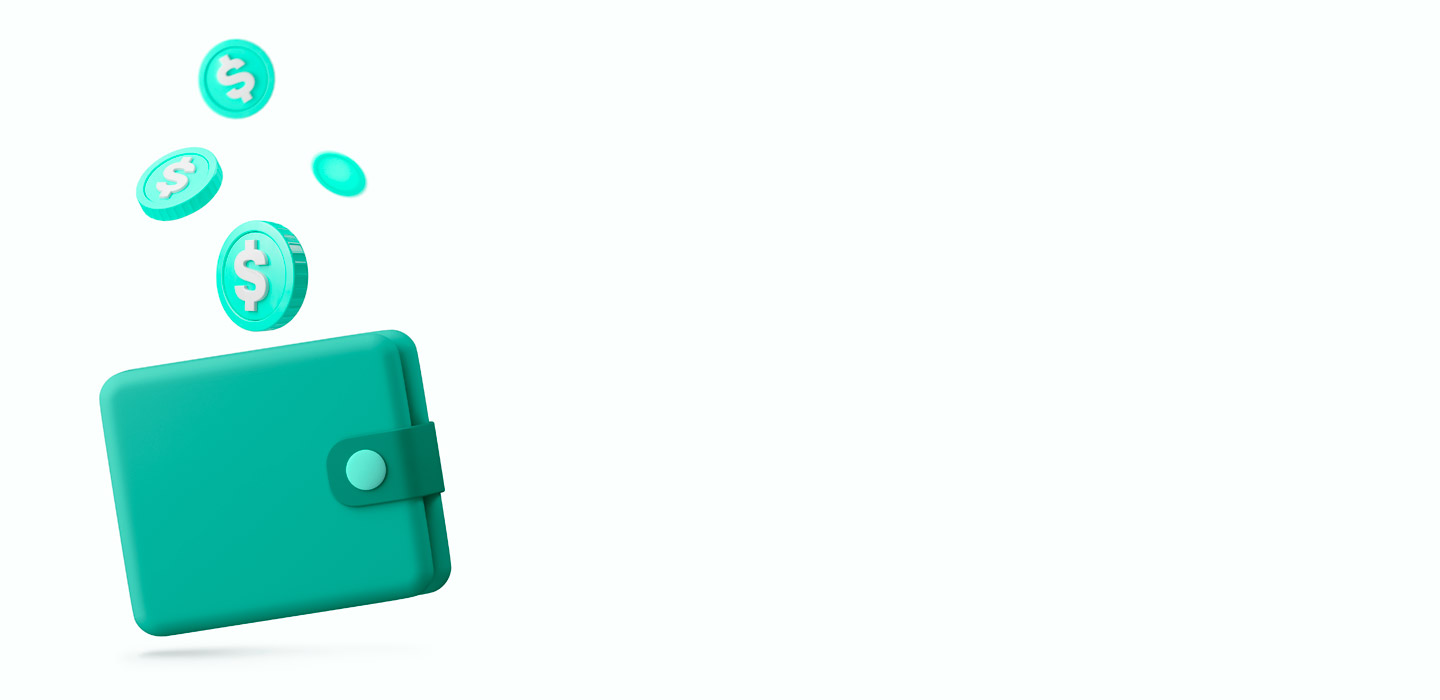
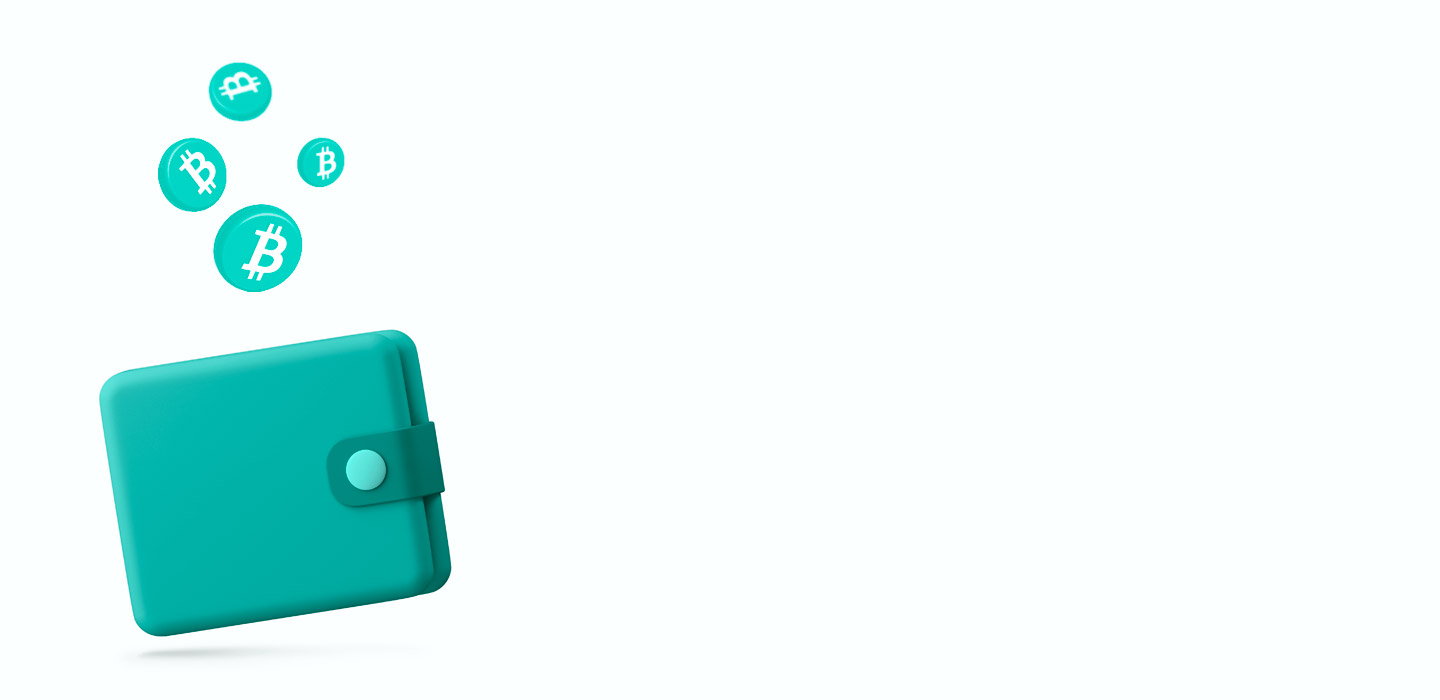
'dashboard_nuevo'

Changed region(s): [[0.0938, 0.06, 0.2188, 0.48], [0.1875, 0.18, 0.2812, 0.3]]

diff --git a/html/dashboard.html b/html/dashboard.html
@@ -76,148 +76,85 @@
     <!-- <div id="backdownDiv" class="container-fluid backdown-div animate__animated animate__fadeOutDownBig animate__delay-1s">
 
     </div> -->
-    <div class="dashboard-content container p-3">
-        <div class="row d-flex">
-            <div class="col-8 col-md-auto">
-                <h2 class="display-4 m-0" style="color: #26547c;">Dashboard</h2>
-            </div>
-            <div class="col-2 align-items-center hidden-desktop">
-                <a href="#" class="m-1" style="color: #26547c;"><span class="material-icons">notifications</span></a>
-            </div>
-            <div class="col-2 align-items-center hidden-desktop">
-                <a href="#" class="m-1" style="color: #26547c;"><span class="material-icons">chat</span></a>
-            </div>
-        </div>
-        <hr style="height: 2px;color: #26547c8a;">
-        <div class="container-fluid">
-            <div class="row">
-                <div class="col-xs-12 col-md-6 mt-3 p-2">
-                    <div class="card bg-dark text-white card-currency" style="background-image: url('../assets/img/dashboard/card1.jpg');background-size: cover;">
-                        <div class="card-body">
-                            <div class="row align-items-center">
-                                <div class="col-6">
-                                    <h3 class="card-title fw-light m-0">Bitcoin<br><small>BTC</small></h3>
-                                </div>
-                                <div class="col-6 text-end">
-                                    <svg width="40" height="40" xmlns="http://www.w3.org/2000/svg" xmlns:xlink="http://www.w3.org/1999/xlink" xmlns:xodm="http://www.corel.com/coreldraw/odm/2003" xml:space="preserve" width="100%" height="100%" version="1.1" shape-rendering="geometricPrecision" text-rendering="geometricPrecision" image-rendering="optimizeQuality" fill-rule="evenodd" clip-rule="evenodd" viewBox="0 0 4091.27 4091.73">
-                                        <g id="Layer_x0020_1">
-                                         <metadata id="CorelCorpID_0Corel-Layer"/>
-                                         <g id="_1421344023328">
-                                          <path fill="#F7931A" fill-rule="nonzero" d="M4030.06 2540.77c-273.24,1096.01 -1383.32,1763.02 -2479.46,1489.71 -1095.68,-273.24 -1762.69,-1383.39 -1489.33,-2479.31 273.12,-1096.13 1383.2,-1763.19 2479,-1489.95 1096.06,273.24 1763.03,1383.51 1489.76,2479.57l0.02 -0.02z"/>
-                                          <path fill="white" fill-rule="nonzero" d="M2947.77 1754.38c40.72,-272.26 -166.56,-418.61 -450,-516.24l91.95 -368.8 -224.5 -55.94 -89.51 359.09c-59.02,-14.72 -119.63,-28.59 -179.87,-42.34l90.16 -361.46 -224.36 -55.94 -92 368.68c-48.84,-11.12 -96.81,-22.11 -143.35,-33.69l0.26 -1.16 -309.59 -77.31 -59.72 239.78c0,0 166.56,38.18 163.05,40.53 90.91,22.69 107.35,82.87 104.62,130.57l-104.74 420.15c6.26,1.59 14.38,3.89 23.34,7.49 -7.49,-1.86 -15.46,-3.89 -23.73,-5.87l-146.81 588.57c-11.11,27.62 -39.31,69.07 -102.87,53.33 2.25,3.26 -163.17,-40.72 -163.17,-40.72l-111.46 256.98 292.15 72.83c54.35,13.63 107.61,27.89 160.06,41.3l-92.9 373.03 224.24 55.94 92 -369.07c61.26,16.63 120.71,31.97 178.91,46.43l-91.69 367.33 224.51 55.94 92.89 -372.33c382.82,72.45 670.67,43.24 791.83,-303.02 97.63,-278.78 -4.86,-439.58 -206.26,-544.44 146.69,-33.83 257.18,-130.31 286.64,-329.61l-0.07 -0.05zm-512.93 719.26c-69.38,278.78 -538.76,128.08 -690.94,90.29l123.28 -494.2c152.17,37.99 640.17,113.17 567.67,403.91zm69.43 -723.3c-63.29,253.58 -453.96,124.75 -580.69,93.16l111.77 -448.21c126.73,31.59 534.85,90.55 468.94,355.05l-0.02 0z"/>
-                                         </g>
-                                        </g>
-                                       </svg>
-                                </div>
-                            </div>
-                            <div class="row mt-5">
-                                <h1 class="display-5 text-center fw-bold">$123.456,90</h1>
-                            </div>
-                            <div class="row mt-4">
-                                <div class="col-6 mt-3 text-center">
-                                    <a href="#" class="btn text-white card-currency-link"><h4 class="m-0">Depositar</h4></a>
-                                </div>
-                                <div class="col-6 mt-3 text-center">
-                                    <a href="#" class="btn text-white card-currency-link"><h4 class="m-0">Retirar</h4></a>
-                                </div>
-                            </div>
-                        </div>
-                      </div>
+    <div class="dashboard-content container-fluid p-3">
+        <div class="container">
+            <div class="row d-flex dashboard-title">
+                <div class="col-8 col-md-auto">
+                    <h2 class="display-4 m-0" style="color: #26547c;">Dashboard</h2>
                 </div>
-                <div class="col-xs-12 col-md-6 mt-3 p-2">
-                    <div class="card bg-dark text-white card-currency"  style="background-image: url('../assets/img/dashboard/card2.jpg');background-size: cover;">
-                        <div class="card-body">
-                            <div class="row align-items-center">
-                                <div class="col-6">
-                                    <h3 class="card-title fw-light m-0">Ethereum<br><small>ETH</small></h3>
-                                </div>
-                                <div class="col-6 text-end">
-                                    <svg xmlns="http://www.w3.org/2000/svg" xml:space="preserve" width="40" height="40" version="1.1" shape-rendering="geometricPrecision" text-rendering="geometricPrecision" image-rendering="optimizeQuality" fill-rule="evenodd" clip-rule="evenodd"
-                                        viewBox="0 0 784.37 1277.39"
-                                        xmlns:xlink="http://www.w3.org/1999/xlink"
-                                        xmlns:xodm="http://www.corel.com/coreldraw/odm/2003">
-                                        <g id="Layer_x0020_1">
-                                        <metadata id="CorelCorpID_0Corel-Layer"/>
-                                        <g id="_1421394342400">
-                                        <g>
-                                            <polygon fill="#343434" fill-rule="nonzero" points="392.07,0 383.5,29.11 383.5,873.74 392.07,882.29 784.13,650.54 "/>
-                                            <polygon fill="#8C8C8C" fill-rule="nonzero" points="392.07,0 -0,650.54 392.07,882.29 392.07,472.33 "/>
-                                            <polygon fill="#3C3C3B" fill-rule="nonzero" points="392.07,956.52 387.24,962.41 387.24,1263.28 392.07,1277.38 784.37,724.89 "/>
-                                            <polygon fill="#8C8C8C" fill-rule="nonzero" points="392.07,1277.38 392.07,956.52 -0,724.89 "/>
-                                            <polygon fill="#141414" fill-rule="nonzero" points="392.07,882.29 784.13,650.54 392.07,472.33 "/>
-                                            <polygon fill="#393939" fill-rule="nonzero" points="0,650.54 392.07,882.29 392.07,472.33 "/>
-                                        </g>
-                                        </g>
-                                        </g>
-                                    </svg>
-                                </div>
-                            </div>
-                            <div class="row mt-5">
-                                <h1 class="display-5 text-center fw-bold">$123.456,90</h1>
-                            </div>
-                            <div class="row mt-4">
-                                <div class="col-6 mt-3 text-center">
-                                    <a href="#" class="btn text-white card-currency-link"><h4 class="m-0">Depositar</h4></a>
-                                </div>
-                                <div class="col-6 mt-3 text-center">
-                                    <a href="#" class="btn text-white card-currency-link"><h4 class="m-0">Retirar</h4></a>
-                                </div>
-                            </div>
-                        </div>
-                      </div>
+                <div class="col-2 align-items-center hidden-desktop">
+                    <a href="#" class="m-1" style="color: #26547c;"><span class="material-icons">notifications</span></a>
                 </div>
-                <div class="col-xs-12 col-md-6 mt-3 p-2">
-                    <div class="card bg-dark text-white card-currency" style="background-image: url('../assets/img/dashboard/card3.jpg');background-size: cover;">
-                        <div class="card-body">
-                            <div class="row align-items-center">
-                                <div class="col-6">
-                                    <h3 class="card-title fw-light m-0">Tether<br><small>USDT</small></h3>
-                                </div>
-                                <div class="col-6 text-end">
-                                    <svg width="40" height="40" id="Layer_1" data-name="Layer 1" xmlns="http://www.w3.org/2000/svg" viewBox="0 0 339.43 295.27"><title>tether-usdt-logo</title><path d="M62.15,1.45l-61.89,130a2.52,2.52,0,0,0,.54,2.94L167.95,294.56a2.55,2.55,0,0,0,3.53,0L338.63,134.4a2.52,2.52,0,0,0,.54-2.94l-61.89-130A2.5,2.5,0,0,0,275,0H64.45a2.5,2.5,0,0,0-2.3,1.45h0Z" style="fill:#50af95;fill-rule:evenodd"/><path d="M191.19,144.8v0c-1.2.09-7.4,0.46-21.23,0.46-11,0-18.81-.33-21.55-0.46v0c-42.51-1.87-74.24-9.27-74.24-18.13s31.73-16.25,74.24-18.15v28.91c2.78,0.2,10.74.67,21.74,0.67,13.2,0,19.81-.55,21-0.66v-28.9c42.42,1.89,74.08,9.29,74.08,18.13s-31.65,16.24-74.08,18.12h0Zm0-39.25V79.68h59.2V40.23H89.21V79.68H148.4v25.86c-48.11,2.21-84.29,11.74-84.29,23.16s36.18,20.94,84.29,23.16v82.9h42.78V151.83c48-2.21,84.12-11.73,84.12-23.14s-36.09-20.93-84.12-23.15h0Zm0,0h0Z" style="fill:#fff;fill-rule:evenodd"/></svg>
-                                </div>
-                            </div>
-                            <div class="row mt-5">
-                                <h1 class="display-5 text-center fw-bold">$123.456,90</h1>
-                            </div>
-                            <div class="row mt-4">
-                                <div class="col-6 mt-3 text-center">
-                                    <a href="#" class="btn text-white card-currency-link"><h4 class="m-0">Depositar</h4></a>
-                                </div>
-                                <div class="col-6 mt-3 text-center">
-                                    <a href="#" class="btn text-white card-currency-link"><h4 class="m-0">Retirar</h4></a>
-                                </div>
-                            </div>
-                        </div>
-                      </div>
+                <div class="col-2 align-items-center hidden-desktop">
+                    <a href="#" class="m-1" style="color: #26547c;"><span class="material-icons">chat</span></a>
                 </div>
-                <div class="col-xs-12 col-md-6 mt-3 p-2">
-                    <div class="card bg-dark text-white card-currency" style="background-image: url('../assets/img/dashboard/card4.jpg');background-size: cover;">
-                        <div class="card-body">
-                            <div class="row align-items-center">
-                                <div class="col-6">
-                                    <h3 class="card-title fw-light m-0">Litecoin<br><small>LTC</small></h3>
-                                </div>
-                                <div class="col-6 text-end">
-                                    <svg width="40" height="40" xmlns="http://www.w3.org/2000/svg" id="Layer_1" data-name="Layer 1" viewBox="0 0 82.6 82.6"><title>litecoin-ltc-logo</title><circle cx="41.3" cy="41.3" r="36.83" style="fill:#fff"/><path d="M41.3,0A41.3,41.3,0,1,0,82.6,41.3h0A41.18,41.18,0,0,0,41.54,0ZM42,42.7,37.7,57.2h23a1.16,1.16,0,0,1,1.2,1.12v.38l-2,6.9a1.49,1.49,0,0,1-1.5,1.1H23.2l5.9-20.1-6.6,2L24,44l6.6-2,8.3-28.2a1.51,1.51,0,0,1,1.5-1.1h8.9a1.16,1.16,0,0,1,1.2,1.12v.38L43.5,38l6.6-2-1.4,4.8Z" style="fill:#345d9d"/></svg>
-                                </div>
-                            </div>
-                            <div class="row mt-5">
-                                <h1 class="display-5 text-center fw-bold">$123.456,90</h1>
-                            </div>
-                            <div class="row mt-4">
-                                <div class="col-6 mt-3 text-center">
-                                    <a href="#" class="btn text-white card-currency-link"><h4 class="m-0">Depositar</h4></a>
-                                </div>
-                                <div class="col-6 mt-3 text-center">
-                                    <a href="#" class="btn text-white card-currency-link"><h4 class="m-0">Retirar</h4></a>
-                                </div>
-                            </div>
+            </div>
+            <hr style="height: 2px;color: #26547c8a;">
+            <div class="container-fluid d-flex justify-content-center align-items-center">
+                <div class="row justify-content-center align-items-center">
+                    <div class="col-xs-12 col-md-4 m-3 currency-card">
+                        
+                    </div>
+                    <div class="col-xs-12 col-md-4 m-3 currency-card">
+                        <div class="row currency-card-title" style="background-image: url('../assets/img/dashboard/bitcoin-card-title.png');background-size: contain;background-repeat: no-repeat;">
+                            <h4 class="card-title fw-light m-0">Bitcoin<br><small>BTC</small></h4>
                         </div>
-                      </div>
+                        <div class="row mt-3 currency-card-body">
+                            <h3 class="text-center fw-bold balance mt-2">$123.456,90</h3>
+                            <ul class="currency-button-list mt-2">
+                                <li class=""><a href="#" class="currency-card-link">Depositar</a></li>
+                                <li class=""><a href="#" class="currency-card-link">Retirar</a></li>
+                                <li class=""><a href="#" class="currency-card-link">Cobrar</a></li>
+                                <li class=""><a href="#" class="currency-card-link">Pagar</a></li>
+                            </ul>
+                        </div>
+                    </div>
+                    <div class="col-xs-12 col-md-4 m-3 currency-card">
+                        <div class="row currency-card-title" style="background-image: url('../assets/img/dashboard/eth-card-title.png');background-size: contain;background-repeat: no-repeat;">
+                            <h4 class="card-title fw-light m-0">Ethereum<br><small>ETH</small></h4>
+                        </div>
+                        <div class="row mt-3 currency-card-body">
+                            <h3 class="text-center fw-bold balance mt-2">$123.456,90</h3>
+                            <ul class="currency-button-list mt-2">
+                                <li class=""><a href="#" class="currency-card-link">Depositar</a></li>
+                                <li class=""><a href="#" class="currency-card-link">Retirar</a></li>
+                                <li class=""><a href="#" class="currency-card-link">Cobrar</a></li>
+                                <li class=""><a href="#" class="currency-card-link">Pagar</a></li>
+                            </ul>
+                        </div>
+                    </div>
+                    <div class="col-xs-12 col-md-4 m-3 currency-card">
+                        <div class="row currency-card-title" style="background-image: url('../assets/img/dashboard/usdt-card-title.png');background-size: contain;background-repeat: no-repeat;">
+                            <h4 class="card-title fw-light m-0">Tether<br><small>USDT</small></h4>
+                        </div>
+                        <div class="row mt-3 currency-card-body">
+                            <h3 class="text-center fw-bold balance mt-2">$123.456,90</h3>
+                            <ul class="currency-button-list mt-2">
+                                <li class=""><a href="#" class="currency-card-link">Depositar</a></li>
+                                <li class=""><a href="#" class="currency-card-link">Retirar</a></li>
+                                <li class=""><a href="#" class="currency-card-link">Cobrar</a></li>
+                                <li class=""><a href="#" class="currency-card-link">Pagar</a></li>
+                            </ul>
+                        </div>
+                    </div>
+                    <div class="col-xs-12 col-md-4 m-3 currency-card">
+                        <div class="row currency-card-title" style="background-image: url('../assets/img/dashboard/litecoin-card-title.png');background-size: contain;background-repeat: no-repeat;">
+                            <h4 class="card-title fw-light m-0">Litecoin<br><small>LTC</small></h4>
+                        </div>
+                        <div class="row mt-3 currency-card-body">
+                            <h3 class="text-center fw-bold balance mt-2">$123.456,90</h3>
+                            <ul class="currency-button-list mt-2">
+                                <li class=""><a href="#" class="currency-card-link">Depositar</a></li>
+                                <li class=""><a href="#" class="currency-card-link">Retirar</a></li>
+                                <li class=""><a href="#" class="currency-card-link">Cobrar</a></li>
+                                <li class=""><a href="#" class="currency-card-link">Pagar</a></li>
+                            </ul>
+                        </div>
+                    </div>
                 </div>
             </div>
         </div>
+        
     </div>
 
     <div class="container-fluid p-0 ">

diff --git a/styles/dashboard.css b/styles/dashboard.css
@@ -1,6 +1,3 @@
-
-
-
 .nav-button{
   color: #26547c;
   padding: .5rem;
@@ -25,7 +22,7 @@ body{
 .dashboard-content{
     height: 100vh;
     overflow-y: scroll;
-    
+    overflow-x: hidden;
 }
 ::-webkit-scrollbar {
   width: 10px;
@@ -97,29 +94,45 @@ main .sidebar {
   margin-left: 85px;
   transition: margin-left 0.5s;
 }
-
-.card-img{
-  object-fit: contain;
-}
-.card-currency{
-  max-height: fit-content;
-  margin: 1rem;
-  border-radius: 1rem!important;
-  box-shadow: 4px 4px 20px rgba(0, 0, 0, 0.6);
-}
-
-.card-currency-link{
-  text-decoration: none;
+.currency-card{
+  background-color: #c2c2c259;
+  padding: 1rem 2rem!important;
+  color: #26547c;
   border-radius: 1rem;
-  color: white;
 }
-.card-currency-link:hover{
-  color: white;
-  background-color:rgba(255, 255, 255, 0.103);
+.currency-card-title{
+  background-color: white;
+  padding: 1rem;
+  border-radius: 1rem;
+  box-shadow: 0px 10px 15px rgba(0, 0, 0, 0.3);
+}
+.currency-card-body{
+  background-color: white;
+  padding: .5rem;
+  border-radius: 1rem;
+  box-shadow: 0px 10px 15px rgba(0, 0, 0, 0.3);
+}
+.currency-button-list{
+  display: flex;
+  flex-direction: row;
+  list-style: none;
+  justify-content: space-between;
+}
+.currency-card-link{
+  text-decoration: none;
+  color: #26547c;
+  padding: .5rem;
+  border: 1px solid #fff;
+  border-radius: 1rem;
+}
+.currency-card-link:hover{
+  text-decoration: underline 1px #26547c;
+  color: #26547c;
 }
 
 small{
-  color: rgba(255, 255, 255, 0.5);
+  /* color: rgba(0, 0, 0, 0.589); */
+  color: #00D2B9ff;
 }
 
 @media screen and (max-height: 450px) {
@@ -147,6 +160,18 @@ small{
   }
   .hidden-desktop{
     display: flex;
+  }
+  .currency-button-list{
+    flex-direction: column;
+    text-align: center;
+    margin-top: 0!important;
+  }
+  .currency-button-list li{
+    margin-top: 1rem;
+  }
+  .currency-card-link{
+    border: none;
+    padding: none!important;
   }
 }
 

diff --git a/html/login.html b/html/login.html
@@ -39,7 +39,7 @@
             </div>
         </div>
     </nav>
-    <div class="container container-form-register">
+    <div class="container container-form-register" style="position: relative;">
         <h1 class="form-title display-4 text-center fw-bold">Ingresá a tu cuenta</h1>
         <form class="mt-5 row g-2">
             <div class="row">
@@ -59,8 +59,10 @@
                 <p>¿No tenés cuenta? <a href="../html/register.html">Registrate acá</a></p>
             </div>
         </form>
+        
     </div>
-    <div class="container-fluid p-0 mt-3">
+    
+    <div class="container-fluid p-0 mt-3 container-footer">
         <footer id="footer" class="footer-1">
             <div class="main-footer widgets-dark typo-light">
             <div class="container">

diff --git a/styles/global.css b/styles/global.css
@@ -70,7 +70,14 @@ nav ul{
     border-bottom:#26547c 1px solid;
 }
 
+/*Wave*/
+
+.container-footer{
+    position: relative!important;
+}
+
 /*FOOTER*/
+footer{ position: relative!important; }
 footer .main-footer{  padding: 20px 0;  background: #26547c;}
 footer ul{  padding-left: 0;  list-style: none;}
 
